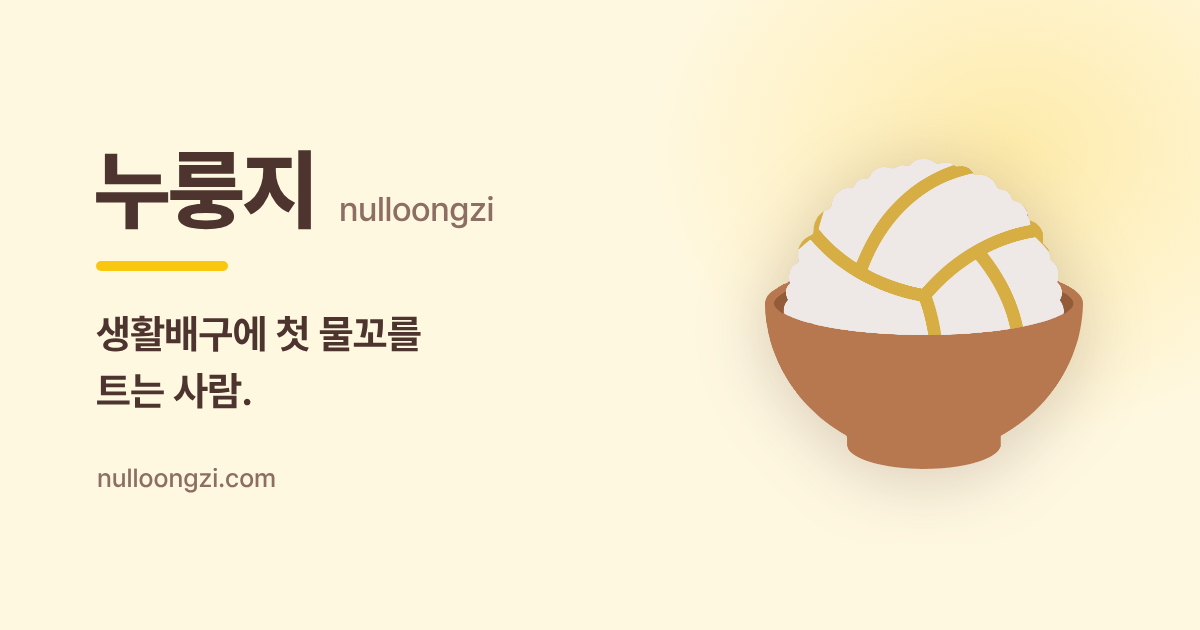
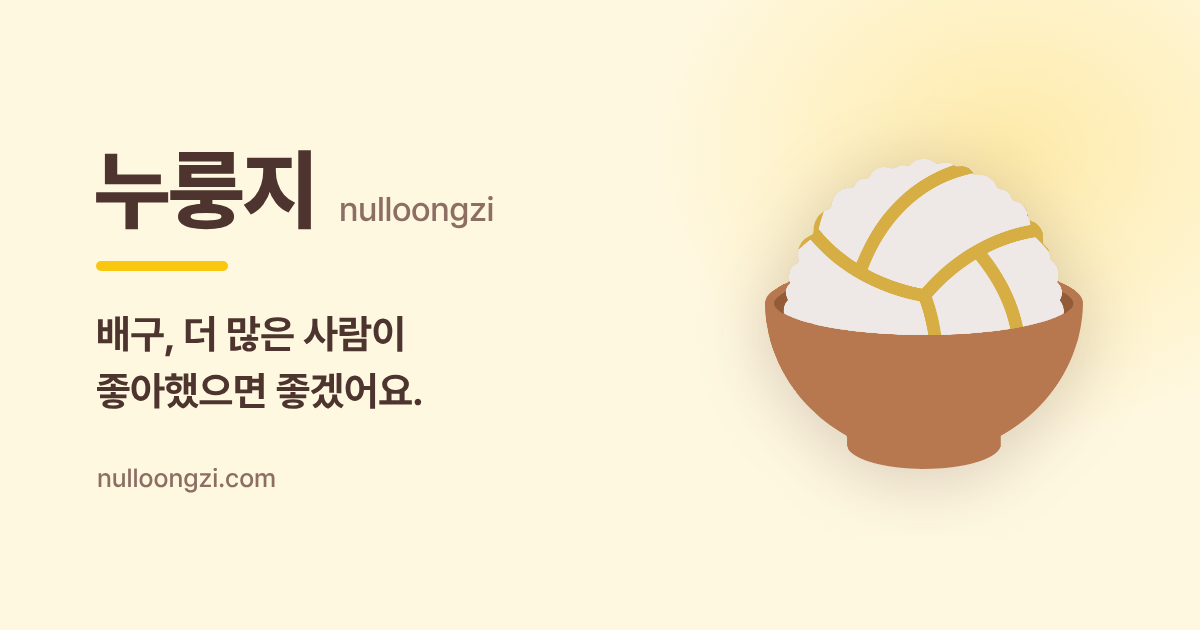
copy: 한 줄 소개를 '배구, 더 많은 사람이 좋아했으면 좋겠어요'로
'생활배구에 첫 물꼬를 트는 사람'보다 하려는 일에 맞게 — 본문 마지막 답
(배구를 더 많은 사람들이 좋아해줬으면 좋겠어요)과 같은 말로 맞춘다.
OG 이미지·meta description·og:description.

Claude-Session: https://claude.ai/code/session_019Jth2i6XR1aaqqSu7PWwxn

Changed region(s): [[0.0617, 0.4825, 0.37, 0.6635]]

diff --git a/index.html b/index.html
@@ -4,9 +4,9 @@
   <meta charset="UTF-8">
   <meta name="viewport" content="width=device-width, initial-scale=1.0">
   <title>누룽지 — nulloongzi</title>
-  <meta name="description" content="생활배구에 첫 물꼬를 트는 사람, 누룽지. 서브부터 꽂힘까지, 인터뷰로 읽는 누룽지 — 그리고 누룽지도(배구 동호회 지도).">
+  <meta name="description" content="배구, 더 많은 사람이 좋아했으면 좋겠어요 — 누룽지. 서브부터 꽂힘까지, 인터뷰로 읽는 누룽지 — 그리고 누룽지도(배구 동호회 지도).">
   <meta property="og:title" content="누룽지의 랠리 — nulloongzi">
-  <meta property="og:description" content="서브부터 꽂힘까지, 인터뷰로 읽는 누룽지. 생활배구에 첫 물꼬를 트는 것들을 만듭니다.">
+  <meta property="og:description" content="서브부터 꽂힘까지, 인터뷰로 읽는 누룽지. 배구를 더 많은 사람이 좋아했으면 해서 만듭니다.">
   <meta property="og:url" content="https://nulloongzi.com/">
   <meta property="og:type" content="website">
   <meta property="og:image" content="https://nulloongzi.com/assets/og.png">

diff --git a/docs/og/og.html b/docs/og/og.html
@@ -16,6 +16,6 @@ img{position:absolute;left:765px;top:159px;width:318px;filter:drop-shadow(0 8px 
 <div class="glow"></div>
 <div class="t"><b>누룽지</b><span>nulloongzi</span></div>
 <div class="bar"></div>
-<div class="d">생활배구에 첫 물꼬를<br>트는 사람.</div>
+<div class="d">배구, 더 많은 사람이<br>좋아했으면 좋겠어요.</div>
 <div class="u">nulloongzi.com</div>
 <img src="logo.png"><!-- 앱 레포 assets/nulloongzido logo_without bg.png 을 -trim 해서 옆에 둔다 -->
